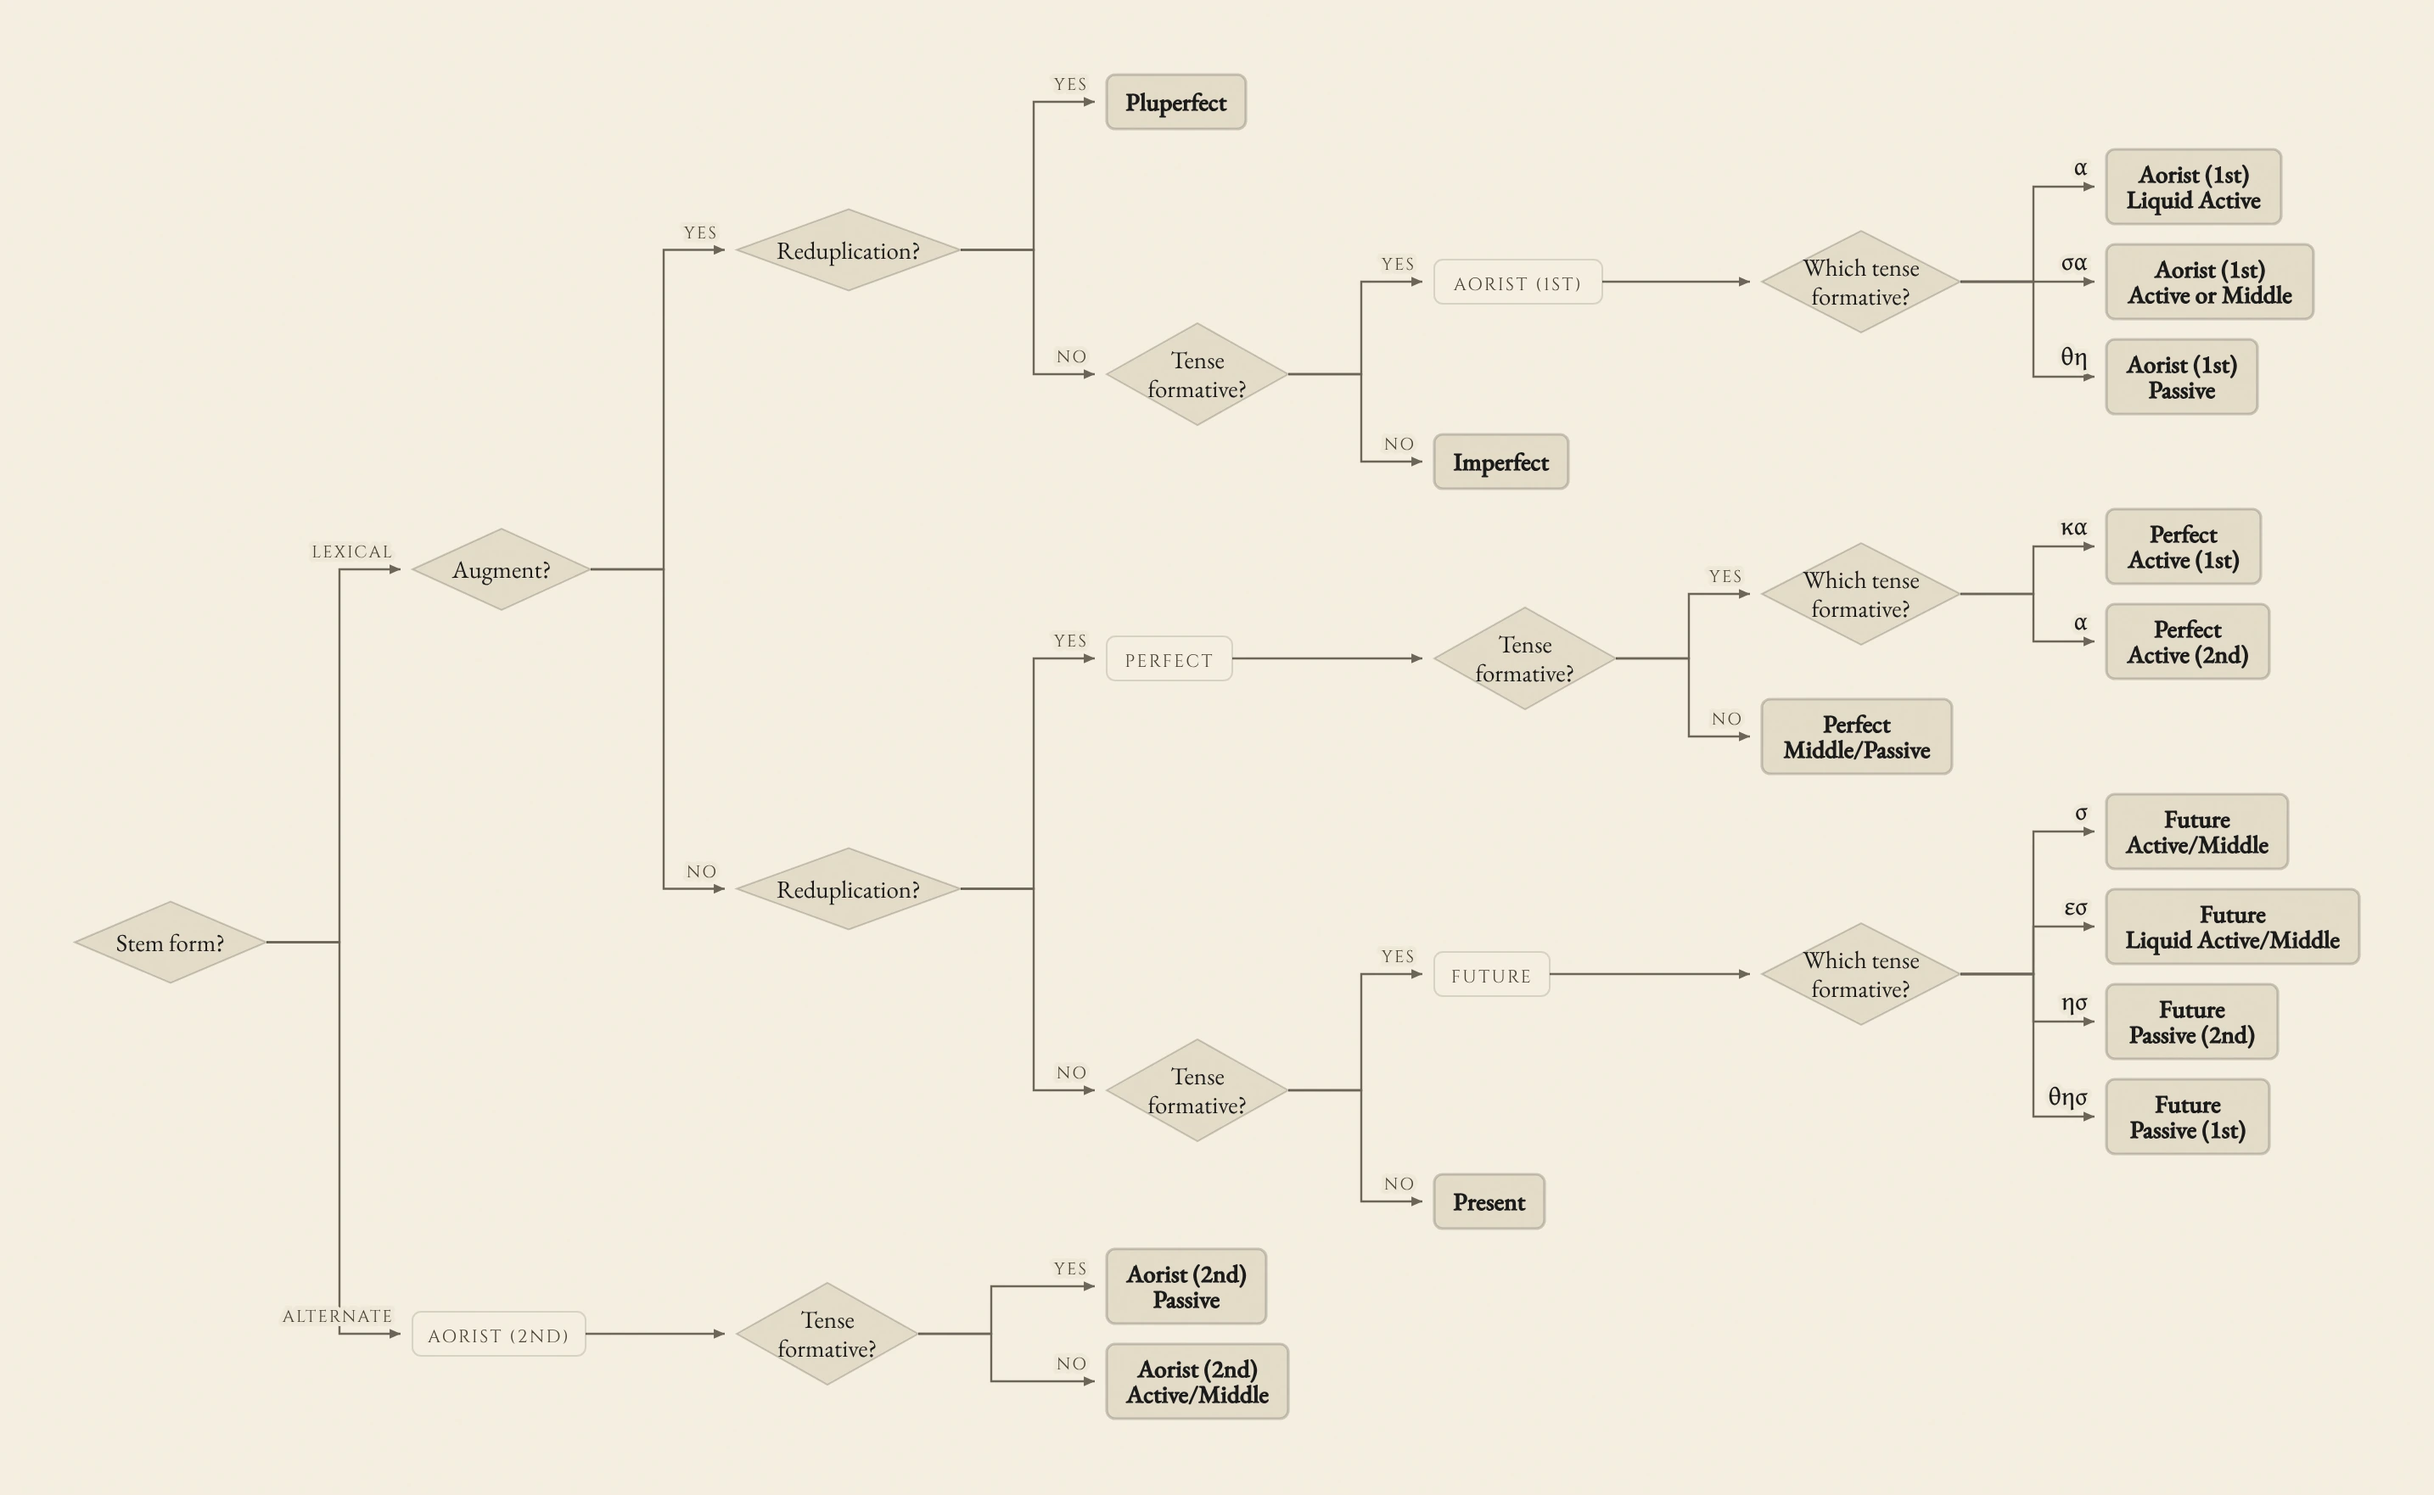
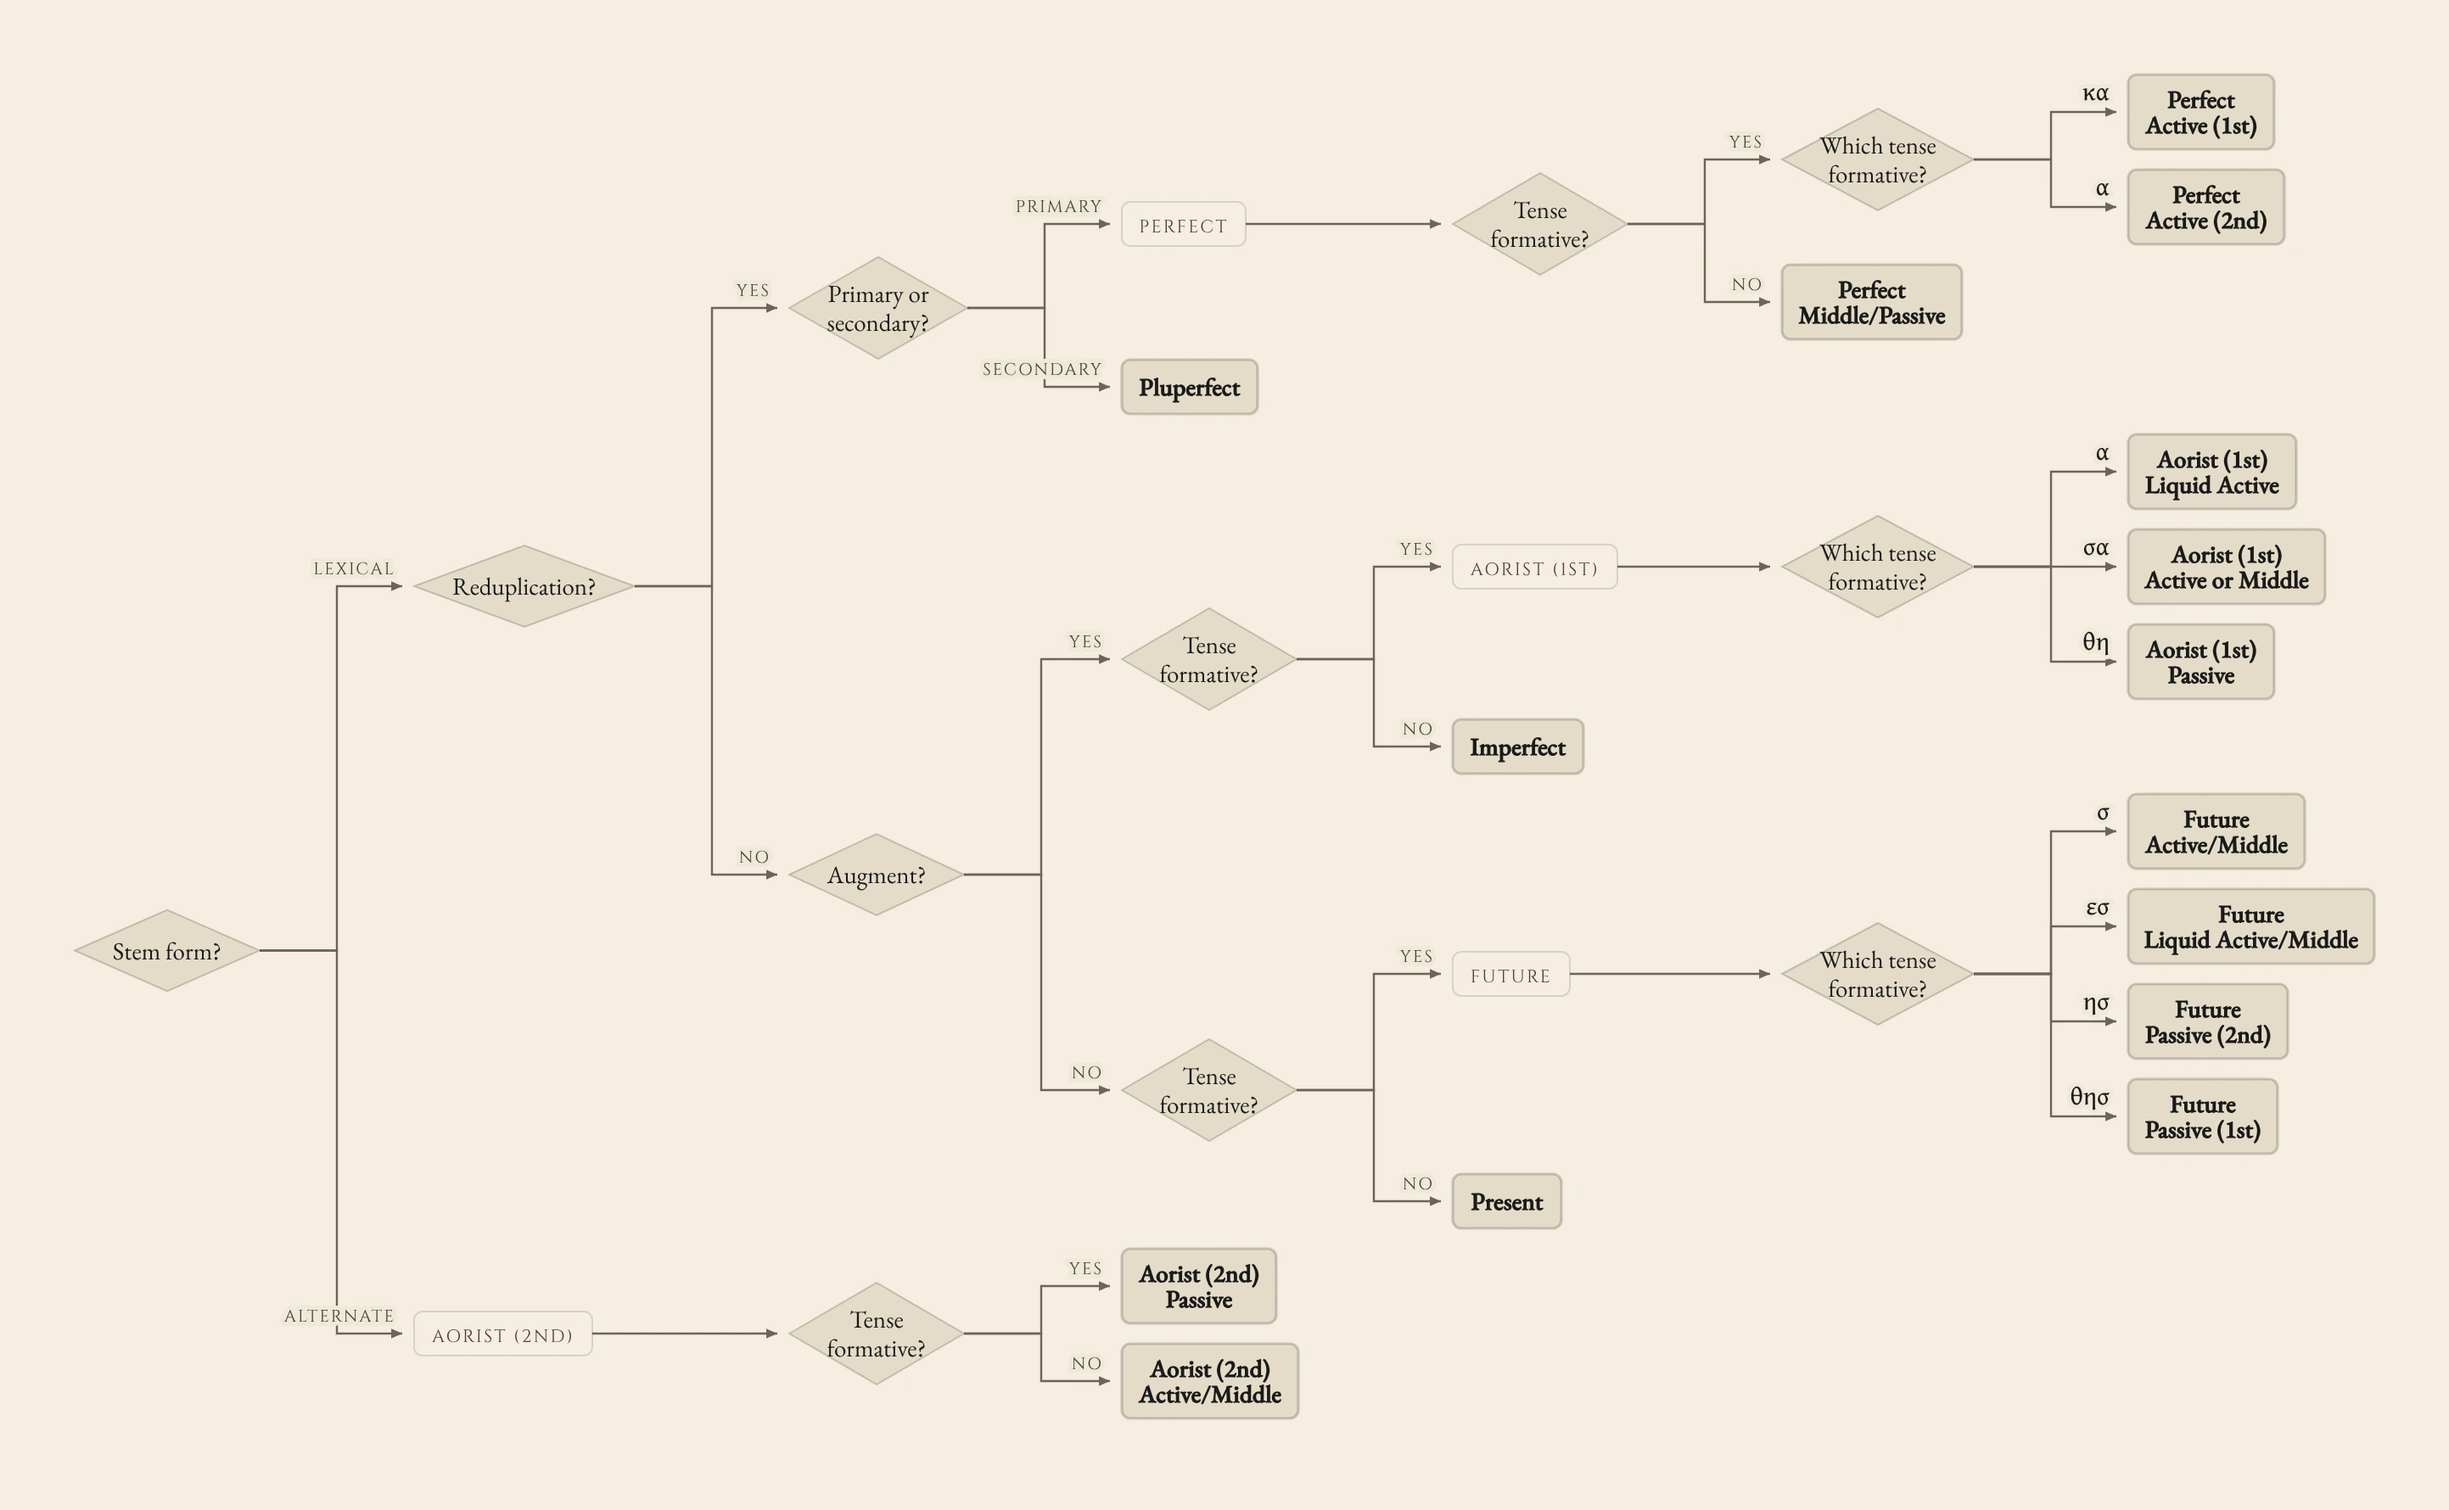
Fixed pluperfect path in parsing flowchart

diff --git a/greek/parsing-flowchart.html b/greek/parsing-flowchart.html
@@ -120,7 +120,7 @@ svg.cv .cv-bar.evil{fill:var(--rd);fill-opacity:.7;stroke:var(--rd)}
   /* .site-wrapper caps the site at 940px, which cut the chart off. The chart
      breaks out of that, but the card hugs the chart rather than spanning the
      viewport and leaving empty wings. */
-  .fc-chart img{display:block;width:1378px;height:auto}
+  .fc-chart img{display:block;width:1387px;height:auto}
   .fc-chart{border:1px solid var(--rule);border-radius:8px;background:var(--glass);padding:.9rem;
              width:fit-content;max-width:98vw;position:relative;left:50%;transform:translateX(-50%)}
   @media (max-width:980px){.fc-chart{width:auto;max-width:none;left:0;transform:none}}
@@ -132,7 +132,7 @@ svg.cv .cv-bar.evil{fill:var(--rd);fill-opacity:.7;stroke:var(--rd)}
      900px wrapper, which is why this sat in a narrow column. The chart card
      escapes only because an image cannot shrink below its own width. */
   .vt-desc{font-size:2rem;line-height:1.3;color:var(--text);
-           width:min(1409px,98vw);max-width:none;margin:1.3rem auto 1.1rem;
+           width:min(1418px,98vw);max-width:none;margin:1.3rem auto 1.1rem;
            position:relative;left:50%;transform:translateX(-50%)}
   /* same breakout and same 980px cutover as .fc-chart, so the line and the
      chart card below it keep the same edges at every width */
@@ -343,7 +343,7 @@ svg.cv .cv-bar.evil{fill:var(--rd);fill-opacity:.7;stroke:var(--rd)}
 
   <div id="chartMode">
     <div class="fc-chart">
-      <img id="fcChart" src="/images/gk/parsing-flowchart-dark.webp" width="1378" height="824"
+      <img id="fcChart" src="/images/gk/parsing-flowchart-dark.webp" width="1387" height="824"
            decoding="async"
            alt="Flowchart for parsing a Koine Greek verb in the indicative: stem form, augment, reduplication and tense formative, leading to each tense and voice.">
     </div>
@@ -402,16 +402,20 @@ svg.cv .cv-bar.evil{fill:var(--rd);fill-opacity:.7;stroke:var(--rd)}
 const TREE = {
   stem:{q:'Is the stem the lexical form, or an alternate?',
         look:'Compare the stem letters against the verb’s lexical (present) form. A changed stem — λαμβάνω → λαβ-, στρέφω → στραφ- — points to a second aorist.',
-        opts:[{l:'Lexical',gl:'Lexical stem',to:'aug'},{l:'Alternate',gl:'Alternate stem',to:'aor2'}]},
+        opts:[{l:'Lexical',gl:'Lexical stem',to:'redup'},{l:'Alternate',gl:'Alternate stem',to:'aor2'}]},
   aor2:{stage:'Aorist (2nd)',q:'Is there a tense formative?',
         look:'With the second stem already carrying the aorist, a formative here (η or θη) marks the passive. Nothing between stem and ending means active or middle.',
         opts:[{l:'Yes',gl:'Tense formative',to:'T_2aor_p'},{l:'No',gl:'No tense formative',to:'T_2aor_am'}]},
+  /* Reduplication comes first because it marks the perfect system outright.
+     Asking about the augment first does not discriminate for a reduplicated
+     verb, and for a stem like γινώσκω the reduplication IS the ε-, so the
+     question has no answer. */
+  redup:{q:'Is there reduplication?',
+         look:'The initial consonant repeated with ε — λυ- → λελυ-, γραφ- → γεγραφ-. A vowel-initial or awkward stem reduplicates by lengthening instead, which can look exactly like an augment (γινώσκω → ἔγνωκα). Reduplication marks the perfect system.',
+         opts:[{l:'Yes',gl:'Reduplication',to:'pfplu'},{l:'No',gl:'No reduplication',to:'aug'}]},
   aug:{q:'Is there an augment?',
-       look:'An ε- prefixed to the stem, or a lengthened initial vowel (α → η, ε → η, ο → ω). In the indicative it marks the secondary (past) tenses.',
-       opts:[{l:'Yes',gl:'Augment',to:'redupA'},{l:'No',gl:'No augment',to:'redupB'}]},
-  redupA:{q:'Is there also reduplication?',
-          look:'The initial consonant repeated with ε — λυ- → λελυ-. Augment and reduplication together can only be the pluperfect.',
-          opts:[{l:'Yes',gl:'Reduplication',to:'T_plup'},{l:'No',gl:'No reduplication',to:'tfA'}]},
+       look:'An ε- prefixed to the stem, or a lengthened initial vowel (α → η, ε → η, ο → ω). With no reduplication in the way, an augment marks the secondary (past) tenses.',
+       opts:[{l:'Yes',gl:'Augment',to:'tfA'},{l:'No',gl:'No augment',to:'tfB'}]},
   tfA:{q:'Is there a tense formative?',
        look:'Look between the stem and the ending. An augment with nothing there is the imperfect; an augment with a formative is a first aorist.',
        opts:[{l:'Yes',gl:'Tense formative',to:'aor1'},{l:'No',gl:'No tense formative',to:'T_impf'}]},
@@ -420,9 +424,13 @@ const TREE = {
         opts:[{l:'α',gl:'Liquid active',gk:1,to:'T_1aor_liq'},
               {l:'σα',gl:'Active or middle',gk:1,to:'T_1aor_am'},
               {l:'θη',gl:'Passive',gk:1,to:'T_1aor_p'}]},
-  redupB:{q:'Is there reduplication?',
-          look:'λελυ-, γεγραφ-. Careful: a vowel-initial stem reduplicates by lengthening, which looks exactly like an augment — check for κα or the perfect endings to tell them apart.',
-          opts:[{l:'Yes',gl:'Reduplication',to:'perf'},{l:'No',gl:'No reduplication',to:'tfB'}]},
+  /* Koine drops the pluperfect augment freely, so a reduplicated stem is not
+     automatically a perfect. The endings decide: πεποιήκασιν against
+     πεποιήκεισαν. One path to each outcome, so no label repeats. */
+  pfplu:{q:'Primary or secondary endings?',
+         look:'The perfect is a primary tense: -α, -ας, -ε(ν), -αμεν, -ατε, -ασι(ν). The pluperfect is a secondary one: -ειν, -εις, -ει, -ειμεν, -ειτε, -εισαν. The third plural shows it plainest — primary -ασι(ν) against secondary -εισαν. In Koine the pluperfect augment is often dropped, so the ending settles it, not the ε-.',
+         opts:[{l:'Primary',gl:'Primary endings',to:'perf'},
+               {l:'Secondary',gl:'Secondary endings',to:'T_plup'}]},
   perf:{stage:'Perfect',q:'Is there a tense formative?',
         look:'The perfect active builds on a formative; the middle/passive attaches its endings straight to the reduplicated stem.',
         opts:[{l:'Yes',gl:'Tense formative',to:'perfW'},{l:'No',gl:'No tense formative',to:'T_perf_mp'}]},
@@ -448,9 +456,10 @@ const TREE = {
   T_2aor_p:{end:'Aorist (2nd) · Passive'}, T_2aor_am:{end:'Aorist (2nd) · Active/Middle'}
 };
 const DLBL = {
-  stem:['Stem form?'], aug:['Augment?'], redupA:['Reduplication?'], redupB:['Reduplication?'],
+  stem:['Stem form?'], aug:['Augment?'], redup:['Reduplication?'],
   tfA:['Tense','formative?'], tfB:['Tense','formative?'], perf:['Tense','formative?'], aor2:['Tense','formative?'],
-  aor1:['Which tense','formative?'], perfW:['Which tense','formative?'], fut:['Which tense','formative?']
+  aor1:['Which tense','formative?'], perfW:['Which tense','formative?'], fut:['Which tense','formative?'],
+  pfplu:['Primary or','secondary?']
 };
 const NS = 'http://www.w3.org/2000/svg';
 
@@ -521,9 +530,11 @@ function pnLong(l){
 /* Which personal endings to expect, given what the chart already settled. */
 function hintEndings(parse){
   const act = parse.indexOf('Active')>=0 && parse.indexOf('Deponent')<0;
-  if(parse.indexOf('Pluperfect')>=0) return ['pluperfect active','-ειν, -εις, -ει, -ειμεν, -ειτε, -εισαν'];
+  if(parse.indexOf('Pluperfect')>=0) return act
+    ? ['secondary active (pluperfect)','-ειν, -εις, -ει, -ειμεν, -ειτε, -εισαν']
+    : ['pluperfect middle/passive','-μην, -σο, -το, -μεθα, -σθε, -ντο'];
   if(parse.indexOf('Perfect')>=0) return act
-    ? ['perfect active','-α, -ας, -ε(ν), -αμεν, -ατε, -ασι(ν)']
+    ? ['primary active (perfect)','-α, -ας, -ε(ν), -αμεν, -ατε, -ασι(ν)']
     : ['perfect middle/passive','-μαι, -σαι, -ται, -μεθα, -σθε, -νται'];
   if(parse.indexOf('Aorist')>=0 && parse.indexOf('Passive')>=0)
     return ['aorist passive','-ην, -ης, -η, -ημεν, -ητε, -ησαν'];

diff --git a/claude/regen-parsing-chart.py b/claude/regen-parsing-chart.py
@@ -1,0 +1,74 @@
+#!/usr/bin/env python3
+"""Rebuild the baked study-chart images for /greek/parsing-flowchart.
+
+The page serves the master chart as two WebP files (one per theme) rather than
+rendering it at runtime, so they must be regenerated whenever TREE changes.
+This drives the page's own renderFlow() in a headless browser, so the output
+always matches the live game's layout exactly.
+
+    python3 claude/regen-parsing-chart.py [repo_root]
+
+Writes images/gk/parsing-flowchart-{dark,light}.webp and prints the chart's
+pixel width, which must match the width in the page's .fc-chart img rule.
+"""
+import sys, os, subprocess, threading, http.server, socketserver, functools
+from playwright.sync_api import sync_playwright
+from PIL import Image
+
+ROOT = os.path.abspath(sys.argv[1] if len(sys.argv) > 1 else '.')
+PORT = 8911
+OUT  = os.path.join(ROOT, 'images', 'gk')
+
+INJECT = """() => {
+  const host=document.createElement('div');
+  host.id='regen';
+  host.style.cssText='position:fixed;left:0;top:0;background:var(--bg);padding:28px;z-index:99999';
+  const NS='http://www.w3.org/2000/svg';
+  const svg=document.createElementNS(NS,'svg'); svg.setAttribute('class','cv');
+  const g=document.createElementNS(NS,'g');
+  svg.appendChild(g); host.appendChild(svg); document.body.appendChild(host);
+  const L=renderFlow(g, new Set(Object.keys(G)), {});
+  svg.setAttribute('viewBox','0 0 '+L.W+' '+L.H);
+  svg.style.width=Math.round(L.W)+'px'; svg.style.height=Math.round(L.H)+'px';
+  return {W:Math.round(L.W), H:Math.round(L.H)};
+}"""
+
+def serve():
+    h = functools.partial(http.server.SimpleHTTPRequestHandler, directory=ROOT)
+    socketserver.TCPServer.allow_reuse_address = True
+    srv = socketserver.TCPServer(('127.0.0.1', PORT), h)
+    threading.Thread(target=srv.serve_forever, daemon=True).start()
+    return srv
+
+def main():
+    srv = serve()
+    os.makedirs(OUT, exist_ok=True)
+    try:
+        with sync_playwright() as p:
+            b = p.chromium.launch()
+            dims = None
+            for mode in ('dark', 'light'):
+                pg = b.new_page(viewport={'width': 2200, 'height': 1400}, device_scale_factor=2)
+                pg.goto('http://127.0.0.1:%d/greek/parsing-flowchart.html' % PORT)
+                pg.wait_for_function("document.fonts && document.fonts.status==='loaded'", timeout=30000)
+                pg.wait_for_timeout(600)
+                if mode == 'light':
+                    pg.evaluate("document.documentElement.classList.add('light-mode')")
+                    pg.wait_for_timeout(300)
+                dims = pg.evaluate(INJECT)
+                pg.wait_for_timeout(400)
+                png = '/tmp/regen-%s.png' % mode
+                pg.query_selector('#regen').screenshot(path=png)
+                dst = os.path.join(OUT, 'parsing-flowchart-%s.webp' % mode)
+                Image.open(png).convert('RGB').save(dst, 'WEBP', quality=92, method=6)
+                print('  %-5s %s  %d KB' % (mode, dst, os.path.getsize(dst) // 1024))
+                pg.close()
+            b.close()
+        print('\nchart is %dx%d CSS px' % (dims['W'], dims['H']))
+        print('.fc-chart img width must be %dpx; .vt-desc width min(%dpx,98vw)'
+              % (dims['W'], dims['W'] + 31))
+    finally:
+        srv.shutdown()
+
+if __name__ == '__main__':
+    main()
